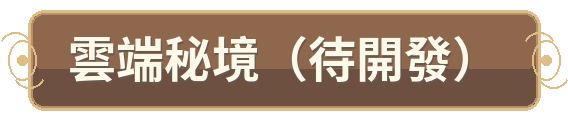
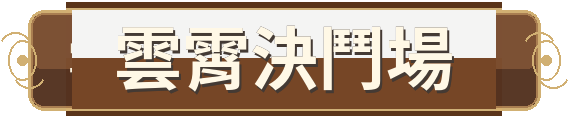
Use the baked 雲霄決鬥場 island plate (#48)
Replace ui-label-cloudrealm.png and drop the interim HTML overlay that covered the old glyphs.

diff --git a/index.html b/index.html
@@ -1288,22 +1288,7 @@
         .island-hotspot--gacha { --x: 82%; --y: 32%; --delay: 0.15s; --bob-dur: 2.6s; --plate-ratio: 328 / 120; }
         .island-hotspot--recreation { --x: 78%; --y: 78%; --delay: 1.05s; --bob-dur: 2.9s; --plate-ratio: 376 / 120; }
         .island-hotspot--darkforest { --x: 18%; --y: 22%; --delay: 0.5s; --bob-dur: 2.4s; --plate-ratio: 568 / 120; }
-        /* 雲霄決鬥場 reuses this plate until @怪獸美術 replaces ui-label-cloudrealm.png
-           (or a new file) with 雲霄決鬥場 baked in, same plate-ratio ~568/120, no「待開發」.
-           --map-x/--map-y must stay in sync with --x/--y and the rename box insets. */
-        .island-hotspot--cloudrealm {
-            --x: 62%;
-            --y: 12%;
-            --delay: 0.9s;
-            --bob-dur: 3.1s;
-            --plate-ratio: 568 / 120;
-            --plate-h: clamp(36px, 9.7cqb, 60px);
-            --plate-w: calc(var(--plate-h) * 568 / 120);
-            --rename-left: 10.5%;
-            --rename-top: 26%;
-            --map-x: calc(0.395 * var(--plate-w) - 62cqi);
-            --map-y: calc(0.24 * var(--plate-h) - 12cqb);
-        }
+        .island-hotspot--cloudrealm { --x: 62%; --y: 12%; --delay: 0.9s; --bob-dur: 3.1s; --plate-ratio: 568 / 120; }
         .island-hotspot--sunkencity { --x: 48%; --y: 88%; --delay: 1.25s; --bob-dur: 2.7s; --plate-ratio: 568 / 120; }
         .island-hotspot {
             position: absolute;
@@ -1377,71 +1362,9 @@
             user-select: none;
             -webkit-user-drag: none;
         }
-        /* Interim title over the baked「雲端秘境（待開發）」glyphs. The map layer
-           stays world-locked while the plate bobs, then the wood wash matches
-           the plate's two flat browns (split at y=69/120) so the wrong words
-           disappear without a new asset. */
-        .island-hotspot--cloudrealm .island-hotspot__bob {
-            position: relative;
-        }
-        .island-hotspot__rename {
-            position: absolute;
-            left: var(--rename-left);
-            top: var(--rename-top);
-            width: 75.5%;
-            height: 52%;
-            overflow: hidden;
-            display: flex;
-            align-items: center;
-            justify-content: center;
-            pointer-events: none;
-            z-index: 1;
-        }
-        .island-hotspot__rename-map,
-        .island-hotspot__rename-wood {
-            position: absolute;
-            inset: 0;
-        }
-        .island-hotspot__rename-map {
-            background-color: rgb(118, 70, 38);
-            background-image: url('assets/bg/lobby-island-map-blank-nolabels.jpg');
-            background-repeat: no-repeat;
-            background-size: 100cqi 100cqb;
-            background-position: var(--map-x) var(--map-y);
-            animation: island-cloudrealm-map var(--bob-dur, 3.1s) ease-in-out infinite;
-            animation-delay: var(--delay, 0.9s);
-        }
-        .island-hotspot__rename-wood {
-            background: linear-gradient(
-                180deg,
-                rgba(118, 70, 38, 0.8235) 0 60.6%,
-                rgba(78, 42, 22, 0.8235) 60.6% 100%
-            );
-        }
-        .island-hotspot__rename-text {
-            position: relative;
-            z-index: 1;
-            color: #fff6e4;
-            font-family: 'Noto Serif TC', 'Noto Sans TC', serif;
-            font-weight: 900;
-            font-size: calc(var(--plate-h) * 0.40);
-            letter-spacing: 0.14em;
-            padding-left: 0.14em;
-            line-height: 1;
-            white-space: nowrap;
-            text-shadow:
-                0 1px 0 #231208,
-                0 -1px 0 #231208,
-                1px 0 0 #231208,
-                -1px 0 0 #231208;
-        }
         @keyframes island-bob {
             0%, 100% { transform: translateY(0); }
             50% { transform: translateY(-6px); }
-        }
-        @keyframes island-cloudrealm-map {
-            0%, 100% { background-position: var(--map-x) var(--map-y); }
-            50% { background-position: var(--map-x) calc(var(--map-y) + 6px); }
         }
         .island-hub-bar {
             width: min(100%, calc(72vh * 16 / 9));
@@ -1526,7 +1449,6 @@
                 --label-h: clamp(28px, 14.5%, 40px);
             }
             .island-hotspot--darkforest { --x: 22%; }
-            .island-hotspot--cloudrealm { --plate-h: clamp(28px, 14.5cqb, 40px); }
             .island-hub-bar {
                 width: 100%;
             }
@@ -1536,8 +1458,7 @@
             }
         }
         @media (prefers-reduced-motion: reduce) {
-            .island-hotspot__bob,
-            .island-hotspot__rename-map {
+            .island-hotspot__bob {
                 animation: none;
             }
         }
@@ -4150,14 +4071,7 @@
                         <span class="island-hotspot__bob"><img src="assets/bg/ui-label-darkforest.png?v=af3a4131" alt=""></span>
                     </button>
                     <button type="button" class="island-hotspot island-hotspot--cloudrealm" onclick="switchView('pvp')" aria-label="雲霄決鬥場，1v1 怪獸對戰">
-                        <span class="island-hotspot__bob">
-                            <img src="assets/bg/ui-label-cloudrealm.png?v=00bf3990" alt="">
-                            <span class="island-hotspot__rename">
-                                <span class="island-hotspot__rename-map" aria-hidden="true"></span>
-                                <span class="island-hotspot__rename-wood" aria-hidden="true"></span>
-                                <span class="island-hotspot__rename-text">雲霄決鬥場</span>
-                            </span>
-                        </span>
+                        <span class="island-hotspot__bob"><img src="assets/bg/ui-label-cloudrealm.png?v=1f67b381" alt=""></span>
                     </button>
                     <button type="button" class="island-hotspot island-hotspot--sunkencity island-hotspot--locked" data-locked-tip="待開發" onclick="showIslandLockedTip(this)" aria-label="沉沒古城，待開發">
                         <span class="island-hotspot__bob"><img src="assets/bg/ui-label-sunkencity.png?v=d96b8d0d" alt=""></span>

diff --git a/scripts/pvp-battle-test.js b/scripts/pvp-battle-test.js
@@ -2,6 +2,7 @@
  * 1v1 怪獸對戰：傷害、同步、出題隔離、獸鑑。
  * node scripts/pvp-battle-test.js
  */
+const crypto = require('crypto');
 const fs = require('fs');
 const path = require('path');
 const vm = require('vm');
@@ -271,9 +272,13 @@ if (cloudBtn) {
     assert(!cloudBtn[0].includes('showIslandLockedTip'), 'cloudrealm hotspot does not use the pending tip');
     assert(cloudBtn[0].includes("switchView('pvp')"), 'cloudrealm hotspot opens the PvP view');
     assert(cloudBtn[0].includes('aria-label="雲霄決鬥場，1v1 怪獸對戰"'), 'cloudrealm aria uses the duel-arena name');
-    assert(cloudBtn[0].includes('>雲霄決鬥場<'), 'cloudrealm plate shows 雲霄決鬥場');
+    assert(cloudBtn[0].includes('ui-label-cloudrealm.png?v=1f67b381'), 'cloudrealm plate is the baked 雲霄決鬥場 asset');
+    assert(!/island-hotspot__rename/.test(cloudBtn[0]), 'cloudrealm hotspot has no HTML rename overlay');
     assert(!cloudBtn[0].includes('雲端秘境'), 'cloudrealm control does not say 雲端秘境');
 }
+assert(!html.includes('island-hotspot__rename'), 'rename overlay markup and CSS are gone');
+assert(!html.includes('island-cloudrealm-map'), 'rename map keyframes are gone');
+assert(!html.includes('--rename-') && !html.includes('--map-x') && !html.includes('--map-y'), 'rename positioning variables are gone');
 const playerCopy = html.replace(/<!--[\s\S]*?-->/g, '').replace(/\/\*[\s\S]*?\*\//g, '');
 assert(!playerCopy.includes('雲端秘境'), 'player-facing copy no longer says 雲端秘境');
 assert(/<h2 class="pvp-title">雲霄決鬥場<\/h2>/.test(html), 'PvP title is 雲霄決鬥場');
@@ -281,8 +286,12 @@ assert(html.includes('<p class="pvp-subtitle">1v1 怪獸對戰</p>'), 'PvP subti
 assert(html.includes('<p class="pvp-kicker">雲霄決鬥場</p>'), 'PvP kicker uses the duel-arena name');
 const openBtn = html.match(/<button[^>]*id="pvp-open-btn"[\s\S]*?<\/button>/);
 assert(openBtn && openBtn[0].includes("switchView('pvp')") && openBtn[0].includes('>雲霄決鬥場<'), 'header/bottom PvP button still opens the same view');
+const platePath = path.join(root, 'assets/bg/ui-label-cloudrealm.png');
+const plateHash = crypto.createHash('sha256').update(fs.readFileSync(platePath)).digest('hex');
+assert(plateHash.startsWith('1f67b381'), 'live plate file matches the baked 雲霄決鬥場 PNG, got ' + plateHash.slice(0, 8));
 const artNote = fs.readFileSync(path.join(root, 'assets/README.md'), 'utf8');
-assert(artNote.includes('@怪獸美術') && artNote.includes('ui-label-cloudrealm') && /568\s*\/\s*120/.test(artNote), 'art note asks for a 568/120 雲霄決鬥場 plate');
+assert(artNote.includes('ui-label-cloudrealm.png') && artNote.includes('雲霄決鬥場') && artNote.includes('568×120'), 'readme notes the live baked 雲霄決鬥場 plate');
+assert(!artNote.includes('@怪獸美術') && !artNote.includes('island-hotspot__rename') && !/please supply/i.test(artNote), 'readme no longer asks for a replacement plate');
 assert(html.indexOf('const STAR_TRAIL_BEASTS = []') === -1, 'star-trail roster is populated');
 assert(html.indexOf("'star-trail': { series: 'star-trail', open: true }") !== -1, 'star-trail pool is open');
 assert(peerSrc.indexOf('floor(自己 ATK × 1.8)') !== -1, 'damage formula stays documented in pvp-peer.js');

diff --git a/assets/README.md b/assets/README.md
@@ -9,6 +9,4 @@ Do not drop new images in the repo root — keep root paths for legacy starters/
 
 ## Island plate: 雲霄決鬥場
 
-`assets/bg/ui-label-cloudrealm.png` still has baked「雲端秘境（待開發）」. The lobby hotspot covers those glyphs with HTML「雲霄決鬥場」until a new plate lands.
-
-@怪獸美術: please supply a replacement with「雲霄決鬥場」baked in (drop「待開發」). Keep the filename `ui-label-cloudrealm.png`, or send a new file such as `ui-label-duelarena.png`. Plate ratio stays ~568/120. After it ships, the `.island-hotspot__rename` overlay in `index.html` can come off.
+`assets/bg/ui-label-cloudrealm.png` is the live lobby plate, with「雲霄決鬥場」baked in (568×120). The island hotspot shows that image directly.
